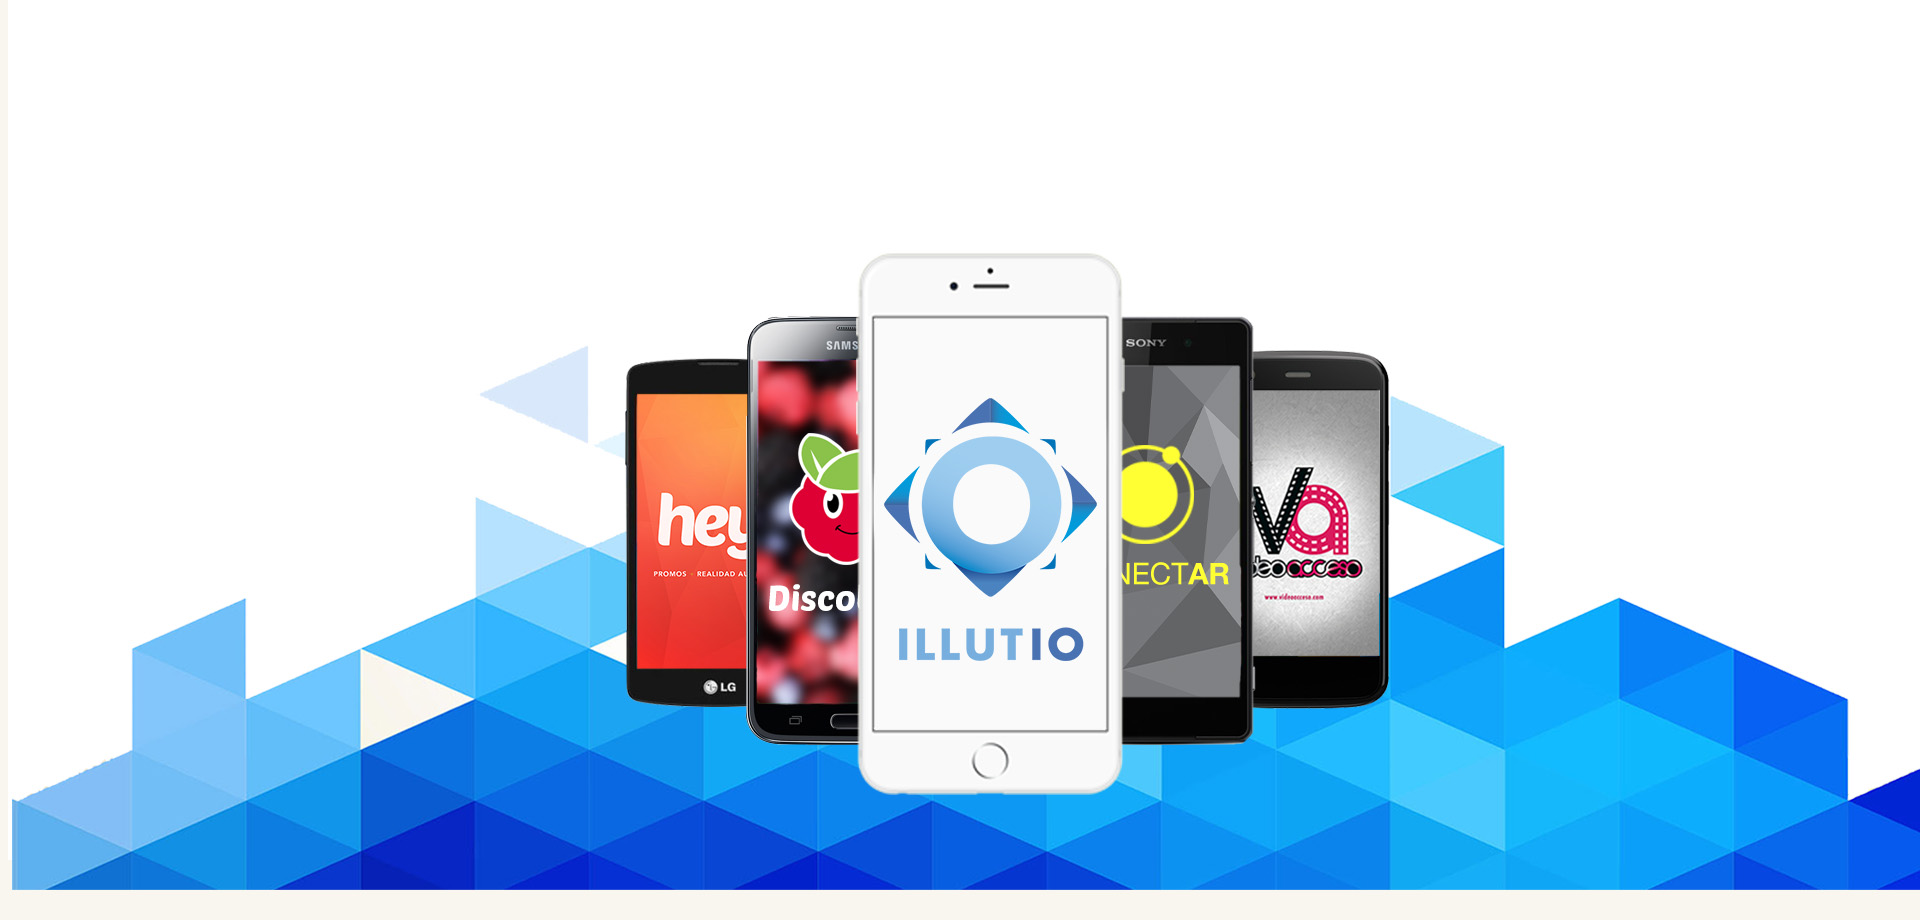
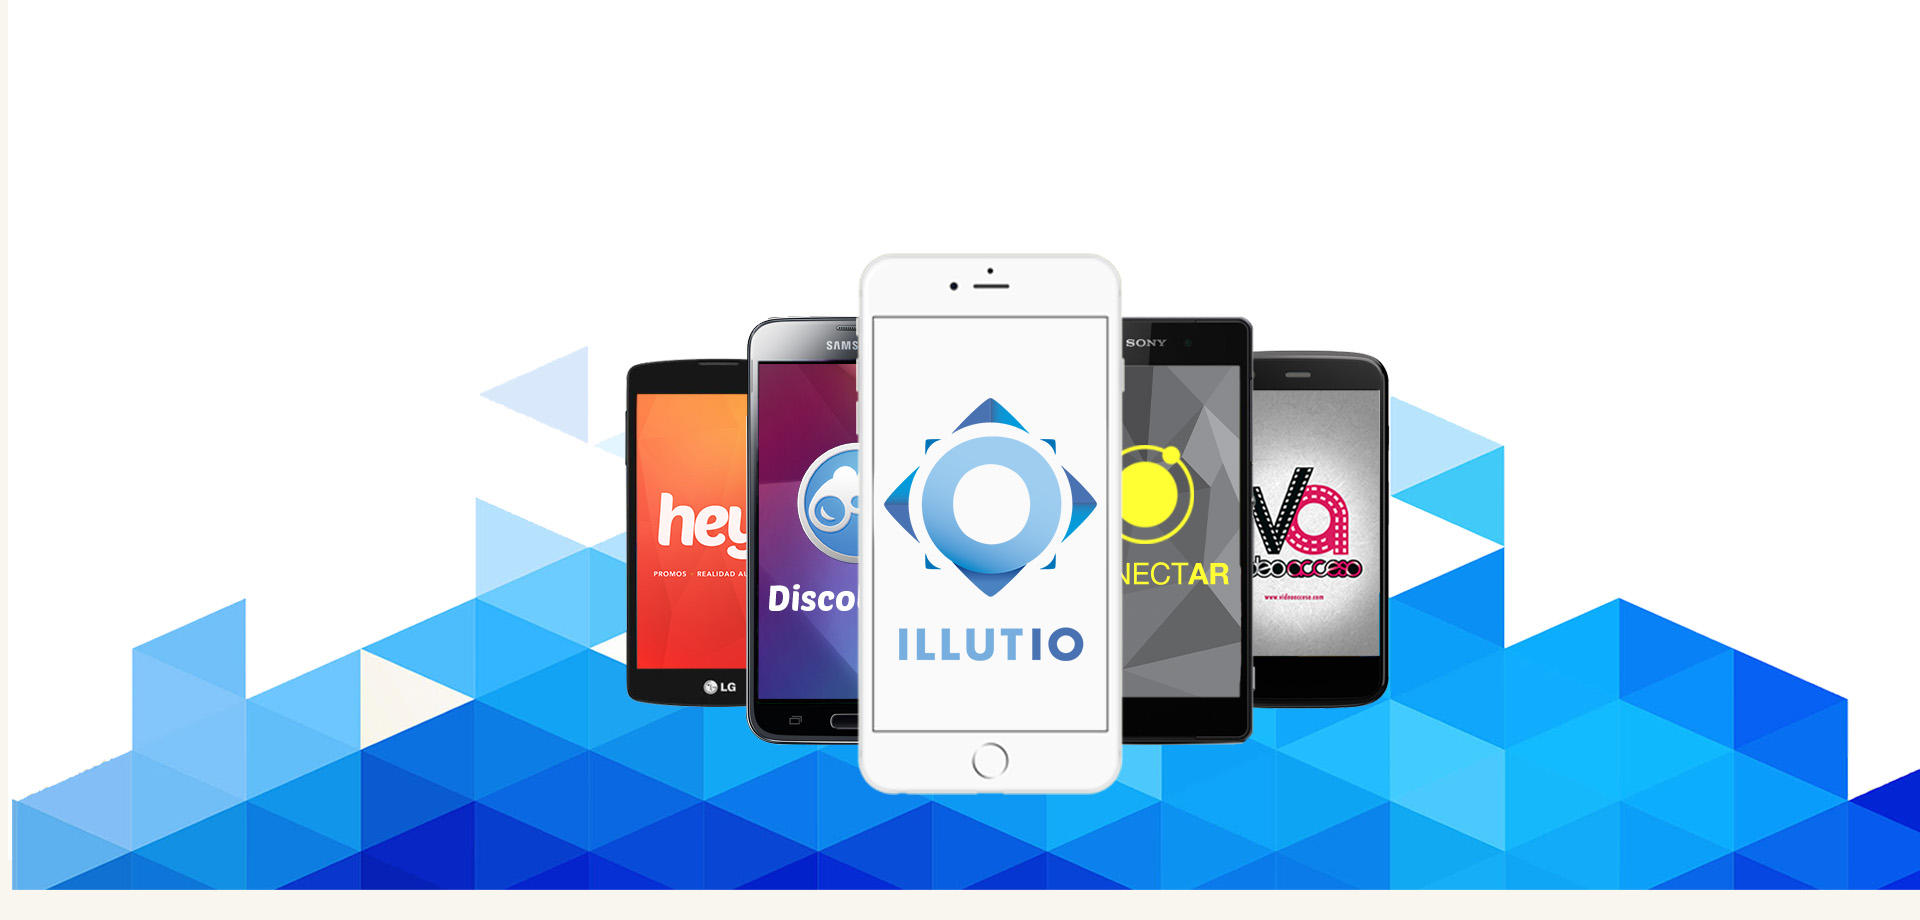
nuevas imagenes, texto y slider

Changed region(s): [[0.375, 0.3957, 0.4688, 0.7913]]

diff --git a/index.html b/index.html
@@ -329,10 +329,10 @@
 		<ul id="portfolio-grid" class="projectlist clearfix">
 			<li class="project mix category_1 mix_all">
 				<a href="#!projects/project1.html">
-					<img src="assets/images/thumbnails/geodisplay.jpg" alt="thumbnail">
+					<img src="assets/images/thumbnails/discoberry.jpg" alt="thumbnail">
 					<div class="projectinfo">
 						<div class="meta">
-							<h4>GeoDisplay</h4>
+							<h4>Discoberry</h4>
 							<h6><em>Realidad aumentada/ Geolocalización</em></h6>
 						</div>
 					</div>
@@ -422,7 +422,7 @@
 	<!-- End Portfolio -->
 
 	<!-- Begin Team -->
-	<div class="slider-cover">
+	<!--<div class="slider-cover">
 	<section id="Aboutcompany" class="content container">
 		<div class="title grid-full">
 			<h2>El equipo de ILLUTIO</h2>
@@ -467,7 +467,7 @@
 		</ul>
 		<img class="animated slide" src="assets/images/team.jpg" alt="team ILLUTIO" data-appear-bottom-offset="150">
 	</section>
-	</div>
+	</div>-->
 	<!-- End Team -->
 
 	<!-- Begin Clients -->
@@ -507,7 +507,7 @@
 						<h6>Juan Antonio Ruiz, ARCAOS</h6>
 					</li>
 					<li>
-						<h3>“La realidad aumentada el mejor medio interactivo de presentar tu producto o servicio. Tus clientes jamás te olvidaran!”</h3>
+						<h3>" Augmented reality the best interactive means of presenting your product or service . Your customers will never forget you! "</h3>
 						<h6>Oscar Aguayo, Dream Filmmaker App.</h6>
 					</li>
 				</ul>

diff --git a/projects/Discoberry.html b/projects/Discoberry.html
@@ -104,7 +104,7 @@
 		</div>
 
 		<div class="project-title grid-full">
-			<h4>Discoberry</h4>
+			<h4>Geodisplay</h4>
 			<h6><em>Tourism /Geolocation</em></h6>
 		</div>
 
@@ -116,11 +116,11 @@
 			</div>
 			<div class="grid-2">
 				<h6>Disponible en IOS</h6>
-				<a href="https://itunes.apple.com/mx/app/geodisplay/id836329726?mt=8" ><img src="assets/images/AppStore.png " class="GeoDisplay IOS" ></img></a>
+				<a href="https://itunes.apple.com/mx/app/geodisplay/id836329726?mt=8" ><img src="../assets/images/..AppStore.png " class="GeoDisplay IOS" ></img></a>
 			</div>
 			<div class="grid-2">
 				<h6>Disponible en Andorid</h6>
-				<a href="https://play.google.com/store/apps/details?id=com.creatorsstudio.geodisplay&hl=es-419" ><img src="assets/images/GooglePlay.png " class="GeoDisplay For Android" ></img></a>
+				<a href="https://play.google.com/store/apps/details?id=com.creatorsstudio.geodisplay&hl=es-419" ><img src="../assets/images/GooglePlay.png " class="GeoDisplay For Android" ></img></a>
 			</div>
 			
 		</div>
